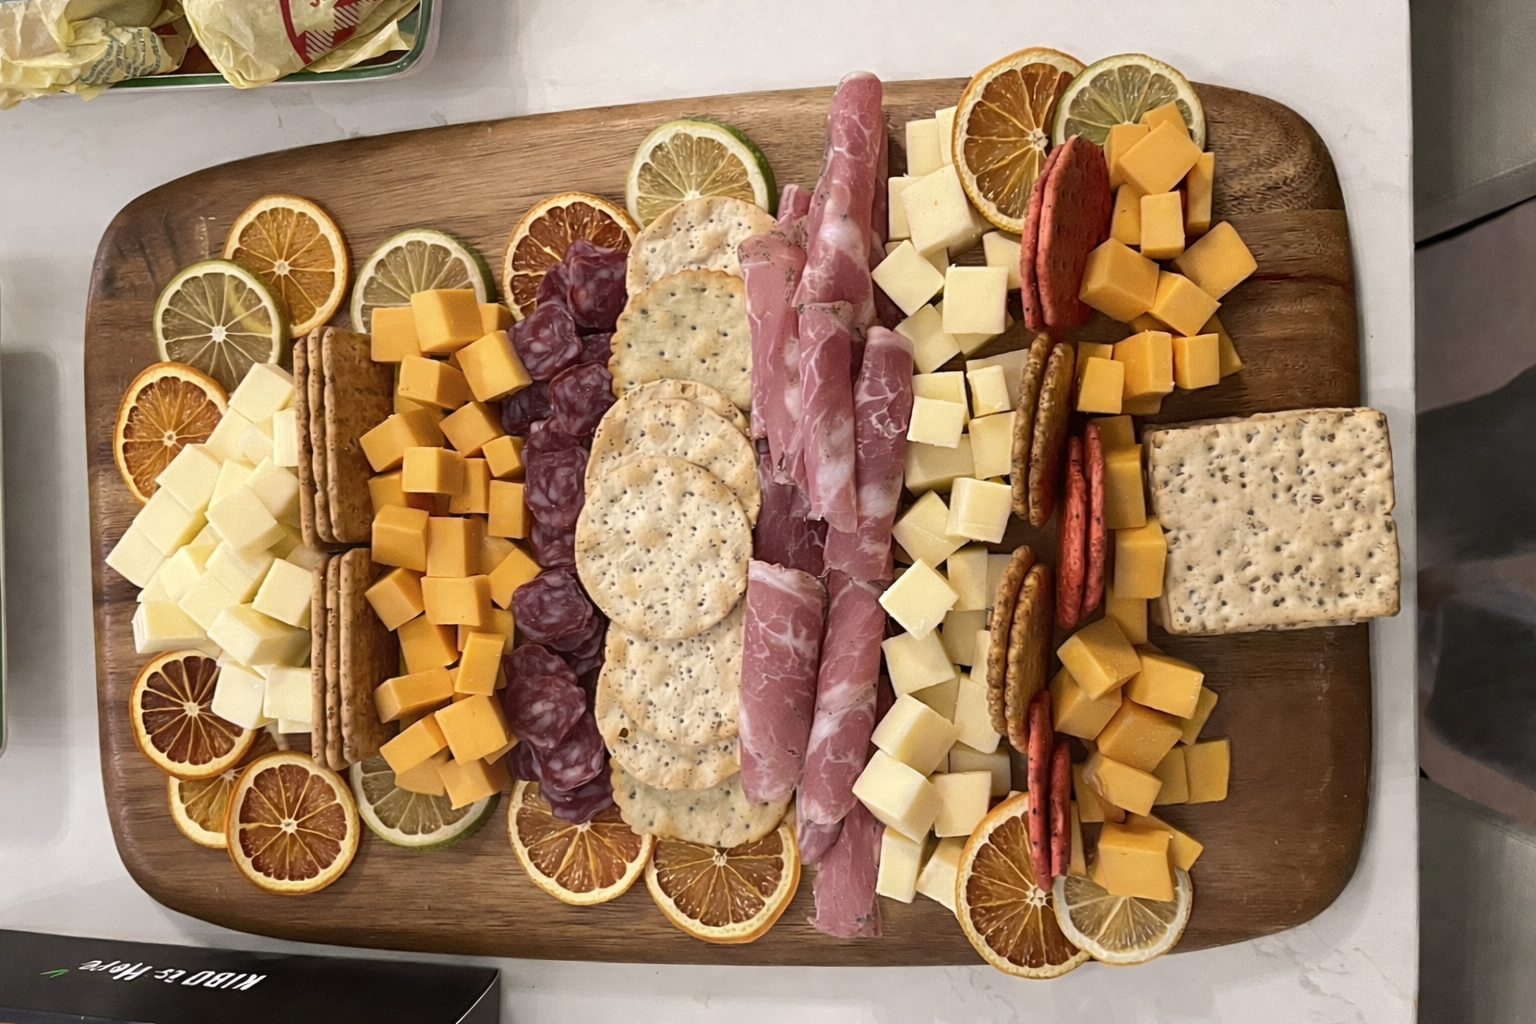
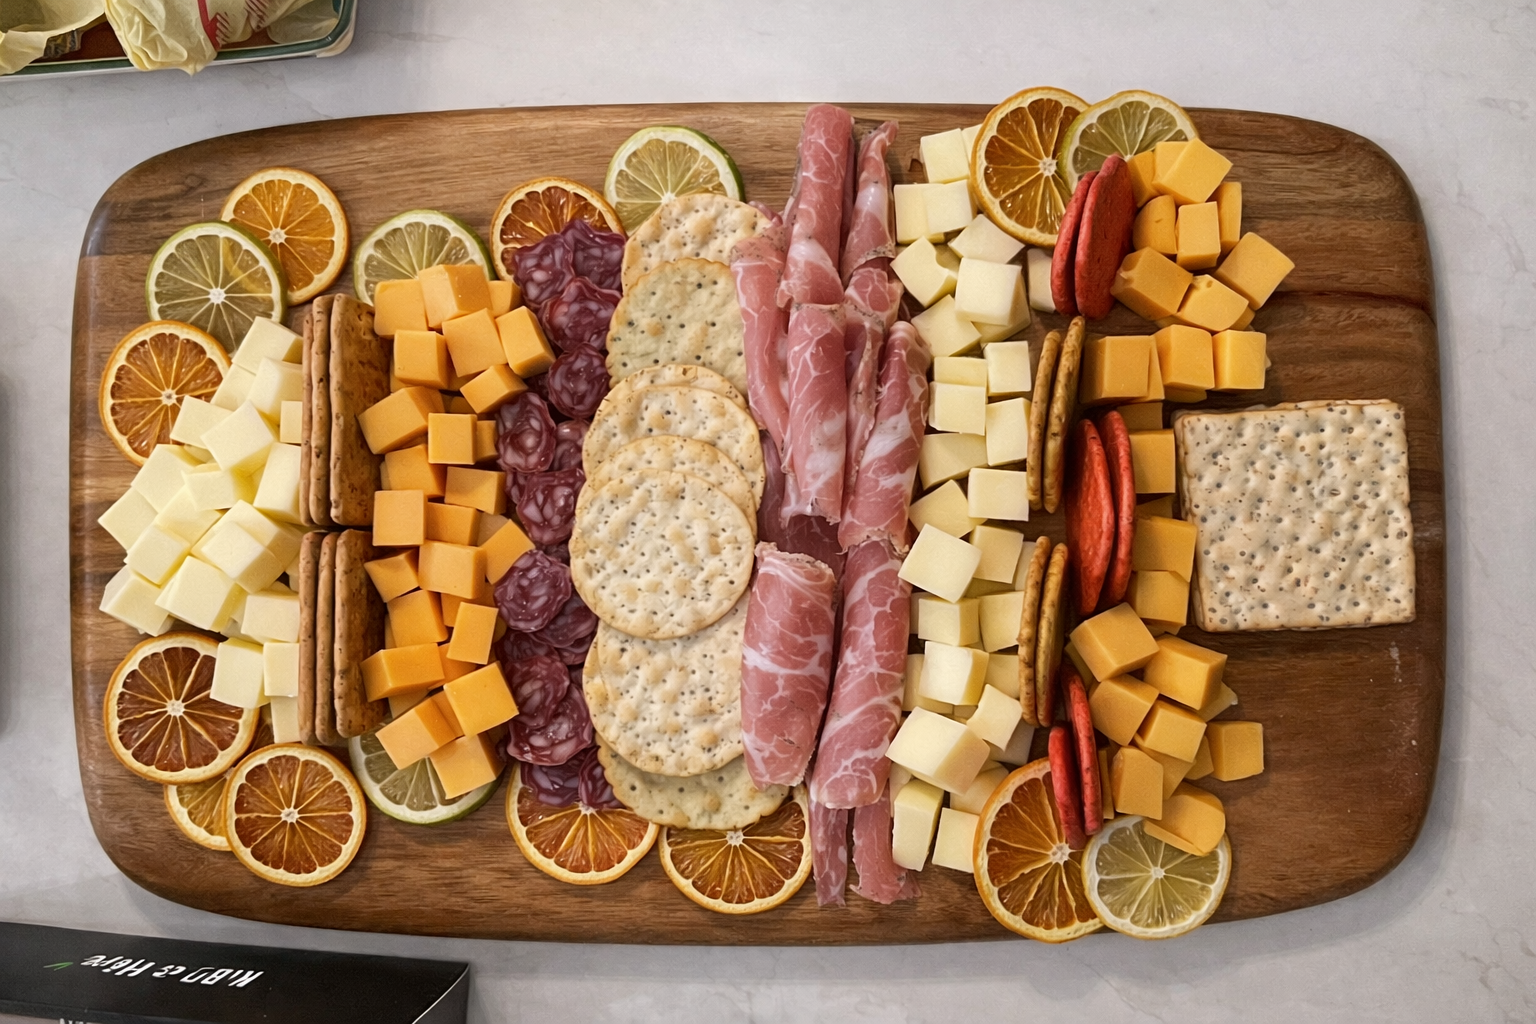
Update lifestyle slider: replace images with new PNGs and remove lime box

diff --git a/src/components/Lifestyle.jsx b/src/components/Lifestyle.jsx
@@ -16,17 +16,12 @@ const lifestyleItems = [
   },
   {
     id: 3,
-    image: "/images/decorated-lime-box.jpg",
-    key: "gift"
-  },
-  {
-    id: 4,
-    image: "/images/drinks.jpg",
+    image: "/images/drinks.png",
     key: "drinks"
   },
   {
-    id: 5,
-    image: "/images/decorated-orange-box.jpg",
+    id: 4,
+    image: "/images/decorated-orange-box.png",
     key: "giftOrange"
   }
 ]
